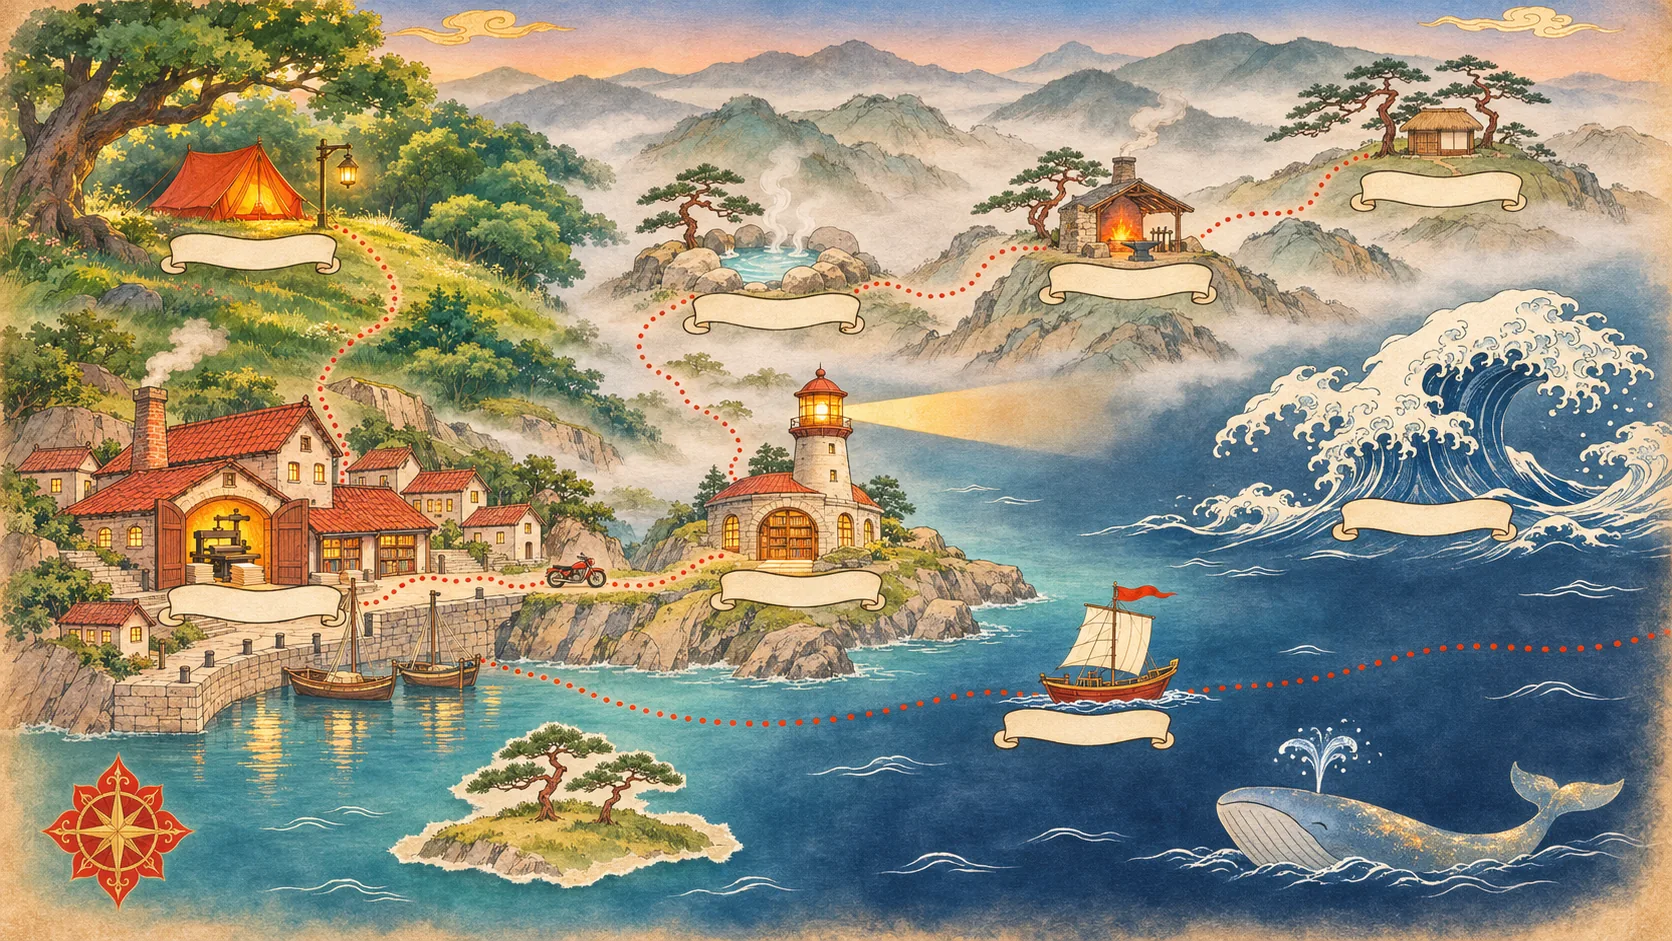
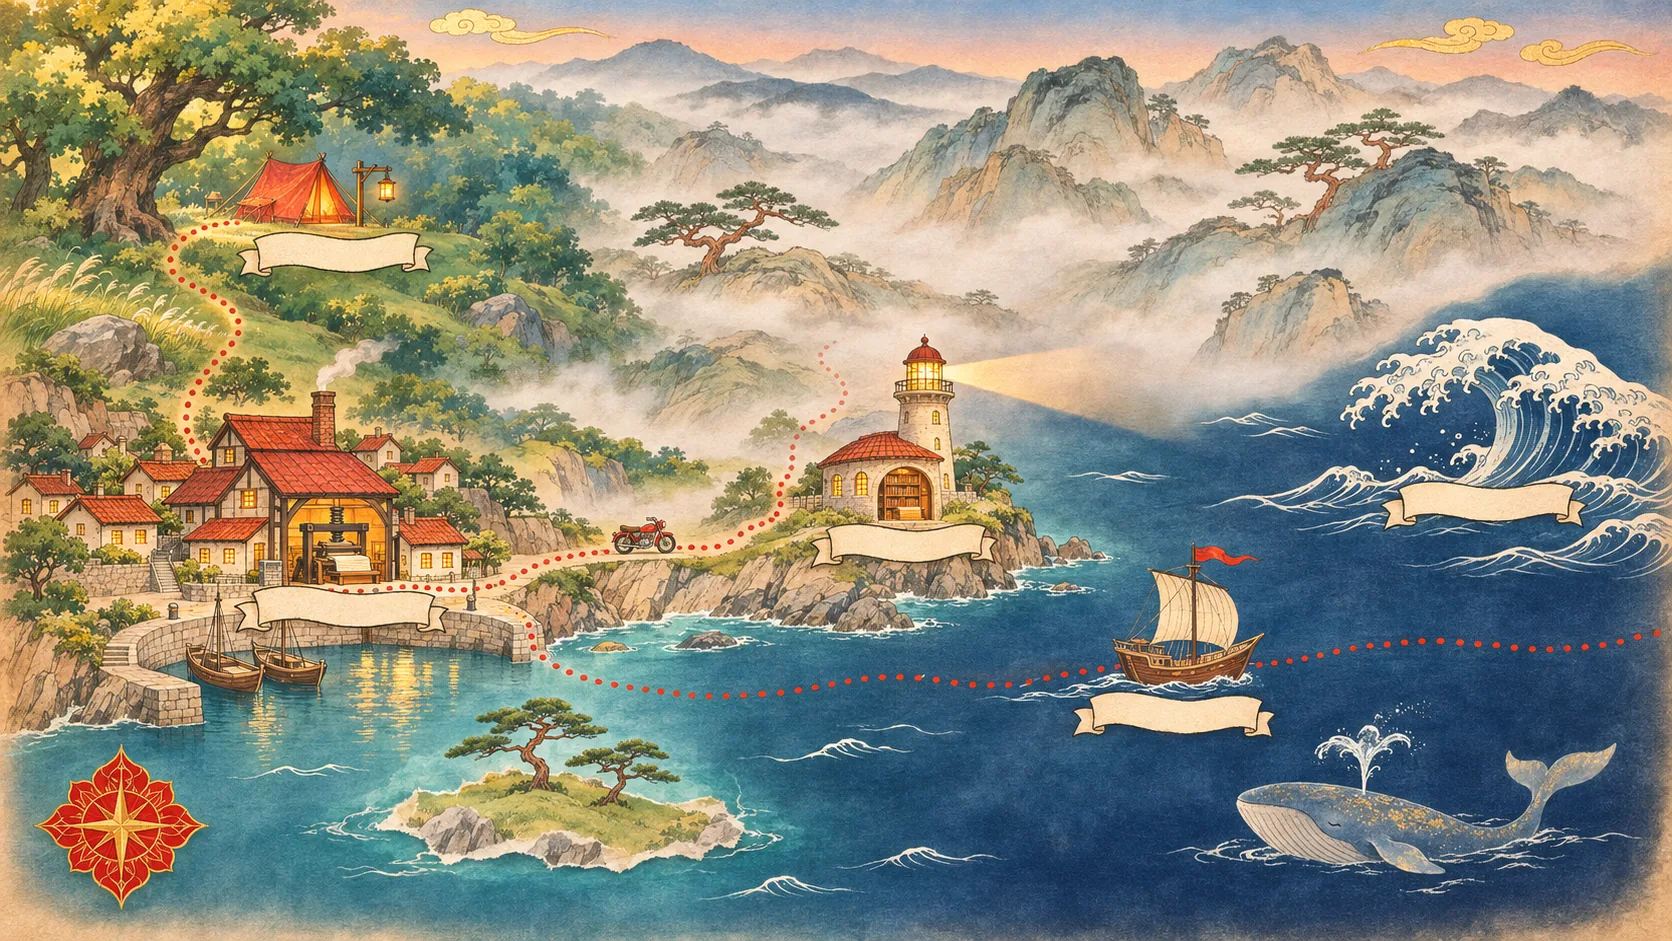
Home map v7: the map links the site's sections only (Now, Writing, Reading, About, I And AI), never single posts, and leaves its misty hills uncharted for a section to come; I And AI's map v7 too

diff --git a/index.html b/index.html
@@ -20,25 +20,23 @@ layout: default
 </section>
 
 {%- comment -%}
-  The map: image-gen's site-map v6-home-regions (5/5). Each pin sits on one of
-  the picture's blank banners; --x and --y are the banner's centre as a share of
-  the picture, measured on the 1672 x 941 original. The sections below repeat
-  every link, for glancing and for screen readers.
+  The map: image-gen's site-map v7-home-sections. It is the site's navigation:
+  one banner per fixed section, never a single post, so new writing never needs
+  a new map; the misty hills are left uncharted for a section to come. Each pin
+  sits on a blank banner; --x and --y are the banner's centre as a share of the
+  picture, measured on the 1672 x 941 original.
 {%- endcomment %}
 <section class="atlas" aria-label="Map of this site">
   <div class="map-scroll">
     <div class="map">
       <img src="/images/art/map-home.webp" srcset="/images/art/map-home-960.webp 960w, /images/art/map-home.webp 1672w"
            sizes="(max-width: 760px) 900px, min(1400px, 100vw)" width="1672" height="941" fetchpriority="high"
-           alt="A painted map of a coast: a camp on a wooded ridge, a harbour town with a printing house, a lighthouse with a library, a hot spring, a forge and a hermitage in misty ink-painted hills, a great wave, and a ship sailing off toward another land">
-      <a class="pin" style="--x:15.1%;--y:26.8%" href="#now">Now</a>
-      <a class="pin" style="--x:15.6%;--y:64.2%" href="#writing">Writing</a>
-      <a class="pin" style="--x:48.6%;--y:62.7%" href="{{ '/reading/' | relative_url }}">Reading</a>
-      <a class="pin" style="--x:46.4%;--y:33.2%" href="{{ '/2025/04/07/onsen.html' | relative_url }}">Onsen</a>
-      <a class="pin" style="--x:67.8%;--y:30.0%" href="{{ '/2025/05/07/book-review-sun-and-steel.html' | relative_url }}">Sun &amp; Steel</a>
-      <a class="pin" style="--x:86.0%;--y:20.1%" href="{{ '/2025/03/02/digital-minimalism.html' | relative_url }}">Minimalism</a>
-      <a class="pin" style="--x:85.3%;--y:55.2%" href="#about">About me</a>
-      <a class="pin" style="--x:64.6%;--y:77.5%" href="{{ '/I-And-AI/' | relative_url }}">I And AI</a>
+           alt="A painted map of a coast: a camp on a wooded ridge, a harbour town with a printing house, a lighthouse with a library, misty uncharted hills, a great wave, and a ship sailing off toward another land">
+      <a class="pin region" style="--x:20.0%;--y:26.8%" href="#now">Now</a>
+      <a class="pin region" style="--x:20.5%;--y:64.5%" href="#writing">Writing</a>
+      <a class="pin region" style="--x:54.0%;--y:57.7%" href="#reading">Reading</a>
+      <a class="pin region" style="--x:88.6%;--y:54.2%" href="#about">About me</a>
+      <a class="pin region" style="--x:70.1%;--y:75.8%" href="#i-and-ai">I And AI</a>
     </div>
   </div>
   <p class="map-hint">Each place on the map is a link. Swipe to see the whole coast.</p>

diff --git a/css/style.css b/css/style.css
@@ -261,6 +261,7 @@ html { overflow-x: clip; }
 }
 .pin:hover { color: #a3321f; text-decoration: underline; text-decoration-thickness: 1px; text-underline-offset: 3px; transform: translate(-50%, -54%) scale(1.08); }
 .pin:focus-visible { outline: 2px solid #a3321f; outline-offset: 2px; color: #a3321f; }
+.pin.region { width: 11.6%; font-size: clamp(13px, 1.7cqi, 24px); letter-spacing: 0.04em; }
 .map-hint { display: none; color: var(--mute); font-size: 0.85rem; margin-top: 8px; text-align: center; }
 
 /* --------------------------------------------------------------- top bar */
